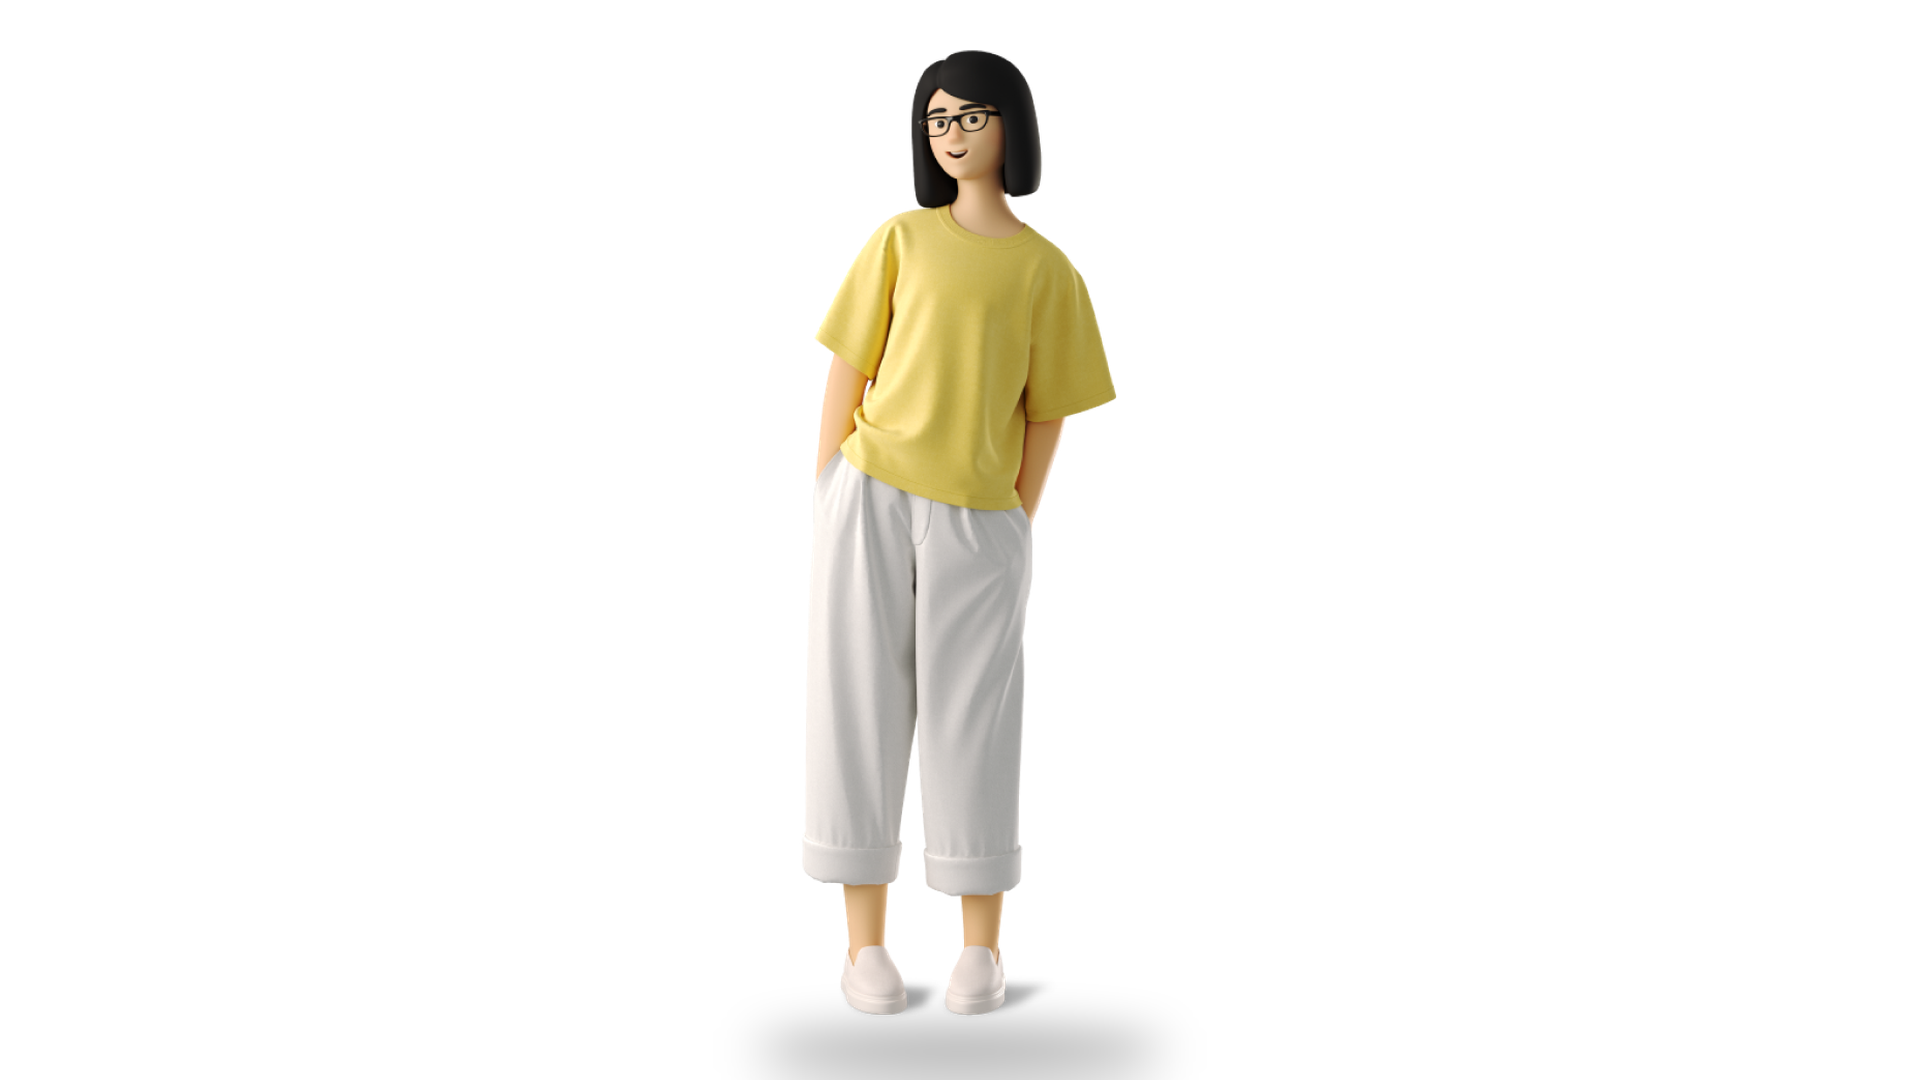
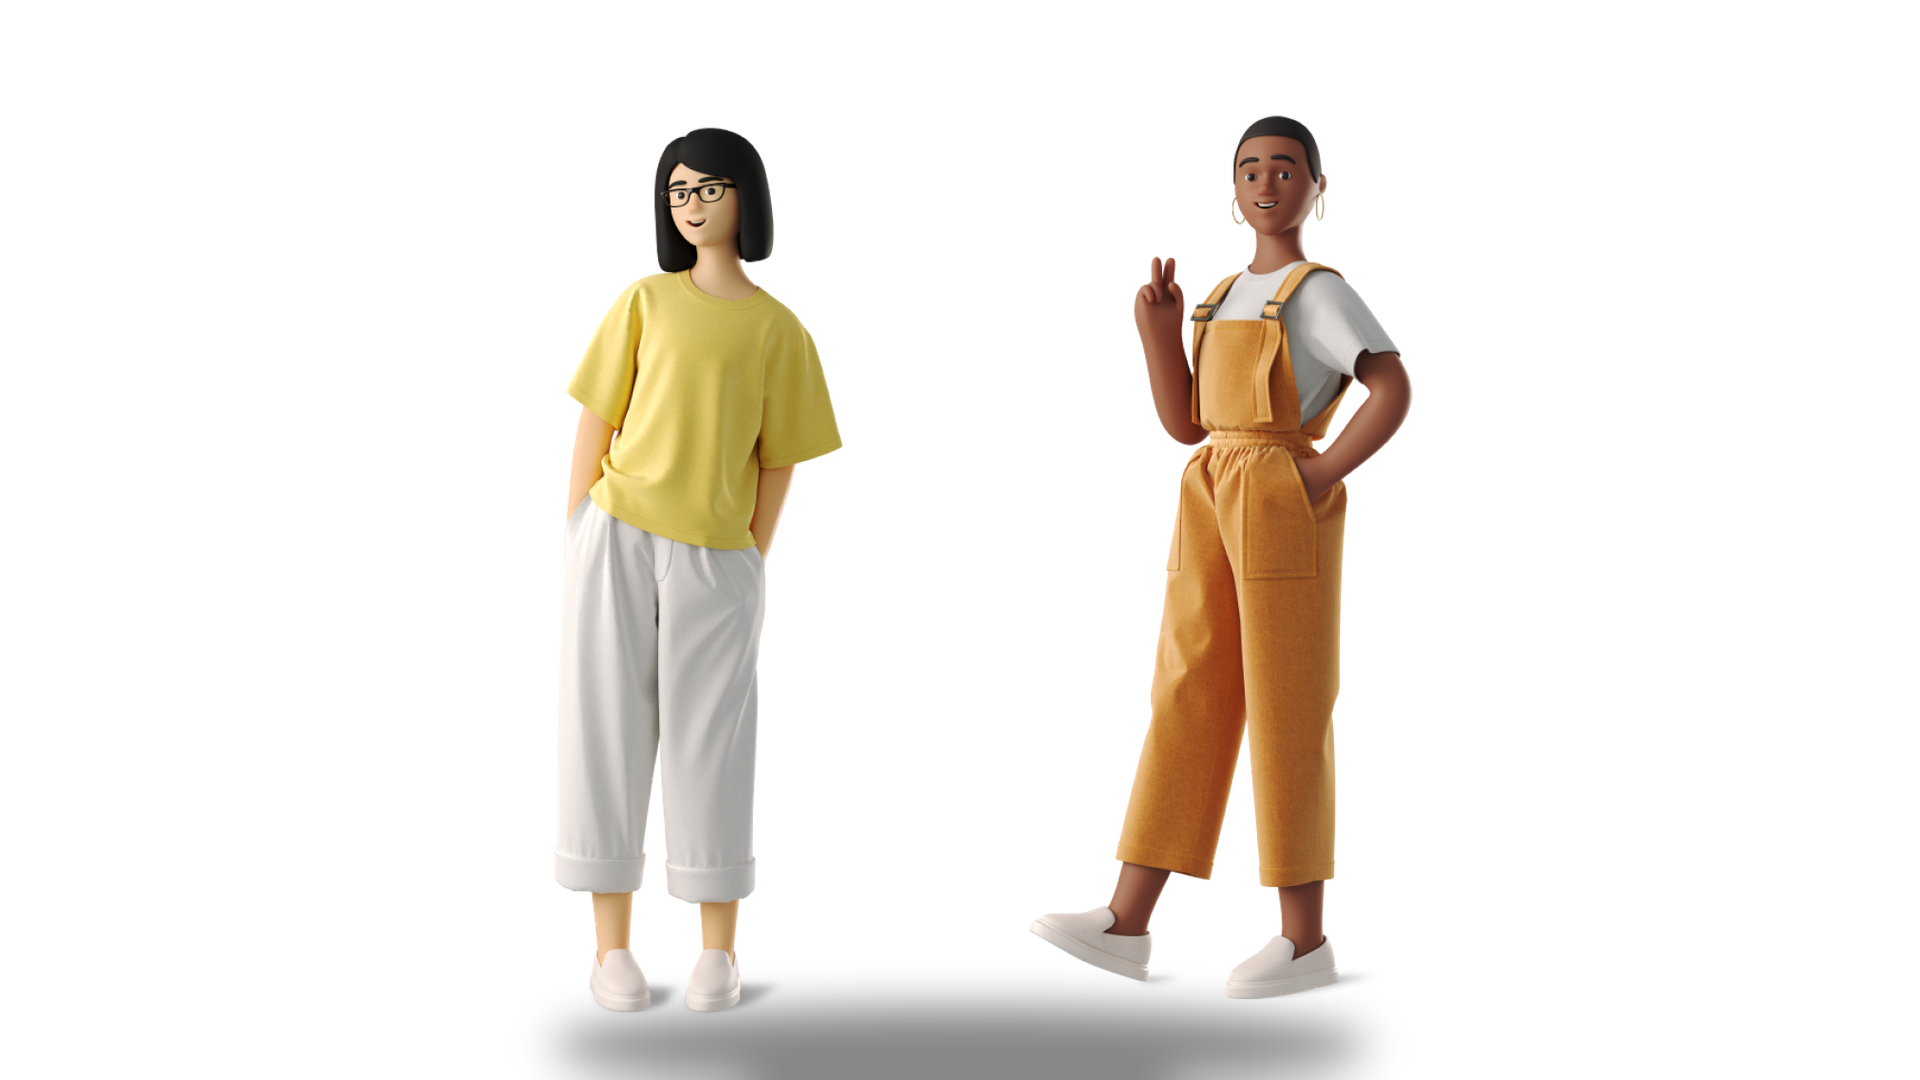
feat(cbx300): cut Aisha growth to 3 stages
Freelancer, Sole proprietor, Mid-size only. Drop ~10-people
and empty same-app landing. New stills plus cutout float.

Changed region(s): [[0.2812, 0.0306, 0.75, 1.0]]

diff --git a/scripts/check-cbx300-case.js b/scripts/check-cbx300-case.js
@@ -47,9 +47,9 @@ check('wires CBX300 cover into existing ProjectStudy router', function () {
   assert.ok(landing.indexOf("studyTemplate: 'cbx300'") !== -1, 'landing does not set studyTemplate');
   assert.ok(index.indexOf('data-world="cbx300"') !== -1, 'index.html missing cbx300 world');
   assert.ok(mvIndex.indexOf('data-world="cbx300"') !== -1, 'index-multiverse.html missing cbx300 world');
-  assert.ok(index.indexOf('cbx300-case.css?v=s33') !== -1, 'index.html missing growth cache-bust');
+  assert.ok(index.indexOf('cbx300-case.css?v=s34') !== -1, 'index.html missing growth cache-bust');
   assert.ok(mvIndex.indexOf('cbx300-case.js?v=s21') !== -1, 'multiverse missing growth cache-bust');
-  assert.ok(index.indexOf('project-study.js?v=s33') !== -1, 'index.html missing study cache-bust');
+  assert.ok(index.indexOf('project-study.js?v=s34') !== -1, 'index.html missing study cache-bust');
 });
 
 check('Section 01 copy matches CEO lock', function () {
@@ -91,12 +91,17 @@ check('cover type is still a large home-parity shout', function () {
 check('Section 02 is Aisha growth, not the old 8-beat film', function () {
   assert.ok(pages.indexOf("data-cbx-growth") !== -1, 'missing growth track');
   assert.ok(pages.indexOf("id: 'freelancer'") !== -1, 'missing freelancer panel');
+  assert.ok(pages.indexOf("id: 'sole'") !== -1, 'missing sole panel');
+  assert.ok(pages.indexOf("id: 'mid'") !== -1, 'missing mid-size panel');
+  assert.ok(pages.indexOf("id: 'ten'") === -1, '~10 people stage must be removed');
   assert.ok(pages.indexOf("label: 'Freelancer'") !== -1, 'missing Freelancer label');
-  assert.ok(pages.indexOf("label: 'Sole prop'") !== -1, 'missing Sole prop label');
-  assert.ok(pages.indexOf("label: '~10 people'") !== -1, 'missing ~10 people label');
+  assert.ok(pages.indexOf("label: 'Sole proprietor'") !== -1, 'missing Sole proprietor label');
   assert.ok(pages.indexOf("label: 'Mid-size'") !== -1, 'missing Mid-size label');
-  assert.ok(pages.indexOf("label: 'Same app, every level'") !== -1, 'missing landing panel');
-  assert.ok(pages.indexOf('outgrow') !== -1, 'missing outgrow landing line');
+  assert.ok(pages.indexOf('01-freelancer.png') !== -1, 'missing freelancer still');
+  assert.ok(pages.indexOf('02-sole-prop.png') !== -1, 'missing sole still');
+  assert.ok(pages.indexOf('03-midsize.png') !== -1, 'missing mid-size still');
+  assert.ok(pages.indexOf('03-small-company.png') === -1, 'old small-company still must go');
+  assert.ok(pages.indexOf('04-midsize.png') === -1, 'old 04-midsize still must go');
   assert.ok(pages.indexOf('data-film-beat') === -1, 'film beats leaked');
   assert.ok(pages.indexOf('film-decision') === -1, 'Decision chips leaked');
   assert.ok(pages.indexOf('maker-checker') === -1, 'maker-checker leaked');

diff --git a/assets/css/cbx300-case.css b/assets/css/cbx300-case.css
@@ -401,7 +401,7 @@ html.is-light-home .study[data-template="cbx300"] .glitch::after {
   color: rgba(244, 239, 230, 0.48);
 }
 
-.cbx-growth__panel[data-cbx-panel="ten"] .cbx-growth__cutout,
+.cbx-growth__panel[data-cbx-panel="mid"] .cbx-growth__cutout,
 .cbx-growth__panel[data-cbx-panel="mid"] .cbx-growth__cutout {
   align-self: center;
   width: 100%;
@@ -439,7 +439,7 @@ html.is-light-home .study[data-template="cbx300"] .glitch::after {
   object-position: center 85%;
 }
 
-.cbx-growth__panel[data-cbx-panel="ten"] .cbx-growth__img,
+.cbx-growth__panel[data-cbx-panel="mid"] .cbx-growth__img,
 .cbx-growth__panel[data-cbx-panel="mid"] .cbx-growth__img {
   object-position: 50% 100%;
 }
@@ -652,3 +652,39 @@ html.is-cream-home .study[data-template="cbx300"] .cbx-growth,
 html.is-light-home .study[data-template="cbx300"] .cbx-growth {
   background: #1E1510;
 }
+
+
+/* Growth cutout enter + soft idle float when panel is on */
+.cbx-growth__cutout {
+  overflow: hidden;
+}
+.cbx-growth__img {
+  transform-origin: center bottom;
+  will-change: transform, opacity;
+  transition: transform 0.6s cubic-bezier(0.22, 1, 0.36, 1), opacity 0.55s ease;
+}
+.cbx-growth__panel:not(.is-on) .cbx-growth__img {
+  opacity: 0.42;
+  transform: translateY(22px) scale(0.95);
+  filter: saturate(0.85);
+}
+.cbx-growth__panel.is-on .cbx-growth__img {
+  opacity: 1;
+  filter: none;
+  animation: cbx-growth-float 5.2s ease-in-out 0.45s infinite;
+}
+@keyframes cbx-growth-float {
+  0%, 100% { transform: translateY(0) scale(1); }
+  50% { transform: translateY(-12px) scale(1.02); }
+}
+@media (prefers-reduced-motion: reduce) {
+  .cbx-growth__img {
+    transition: none;
+    animation: none !important;
+    filter: none !important;
+    opacity: 1 !important;
+    transform: none !important;
+  }
+}
+
+

diff --git a/assets/js/cbx300-case.js b/assets/js/cbx300-case.js
@@ -25,30 +25,17 @@ window.Cbx300Case = (function () {
     },
     {
       id: 'sole',
-      label: 'Sole prop',
-      caption: 'First formal steps. Still mostly her.',
+      label: 'Sole proprietor',
+      caption: 'First hire. Two people, one business.',
       src: 'assets/img/aisha-growth/02-sole-prop.png',
-      alt: 'Clay cutout of Aisha as a sole proprietor.'
-    },
-    {
-      id: 'ten',
-      label: '~10 people',
-      caption: 'A team shows up. Roles and approvals appear.',
-      src: 'assets/img/aisha-growth/03-small-company.png',
-      alt: 'Clay cutout of Aisha with a team of about ten.'
+      alt: 'Clay cutout of Aisha and her first teammate as a sole proprietor.'
     },
     {
       id: 'mid',
       label: 'Mid-size',
-      caption: 'Scale. More people, more control.',
-      src: 'assets/img/aisha-growth/04-midsize.png',
-      alt: 'Clay cutout of Aisha with a mid-size company.'
-    },
-    {
-      id: 'same',
-      label: 'Same app, every level',
-      caption: 'The product adapts. She doesn\u2019t outgrow it.',
-      land: true
+      caption: 'The whole team. Same banking, more control.',
+      src: 'assets/img/aisha-growth/03-midsize.png',
+      alt: 'Clay cutout of Aisha with her full mid-size team.'
     }
   ];
 

diff --git a/index.html b/index.html
@@ -236,7 +236,7 @@
     href="https://fonts.googleapis.com/css2?family=Syne:wght@600;700;800&family=Outfit:wght@300;400;500;600&family=Newsreader:ital,opsz,wght@0,6..72,400;0,6..72,500;1,6..72,400&family=Noto+Sans:wght@700;800&family=Noto+Sans+Devanagari:wght@700;800&family=Noto+Sans+Arabic:wght@700;800&family=Noto+Sans+SC:wght@700&display=swap"
     rel="stylesheet" />
   <link rel="stylesheet" href="assets/css/beyond-transition.css?v=bx17" />
-  <link rel="stylesheet" href="assets/css/cbx300-case.css?v=s33" />
+  <link rel="stylesheet" href="assets/css/cbx300-case.css?v=s34" />
 </head>
 
 <body class="landing">
@@ -561,8 +561,8 @@
   <script src="assets/js/folder-card.js?v=hz104" defer></script>
   <script src="assets/js/project-rail.js?v=hz97" defer></script>
   <script src="assets/js/case-scroll-kit.js?v=film13" defer></script>
-  <script src="assets/js/cbx300-case.js?v=s33" defer></script>
-  <script src="assets/js/project-study.js?v=s33" defer></script>
+  <script src="assets/js/cbx300-case.js?v=s34" defer></script>
+  <script src="assets/js/project-study.js?v=s34" defer></script>
   <script src="assets/js/beyond-transition.js?v=bx20" defer></script>
   <script src="assets/js/landing.js?v=aeo33" defer></script>
   <script>
